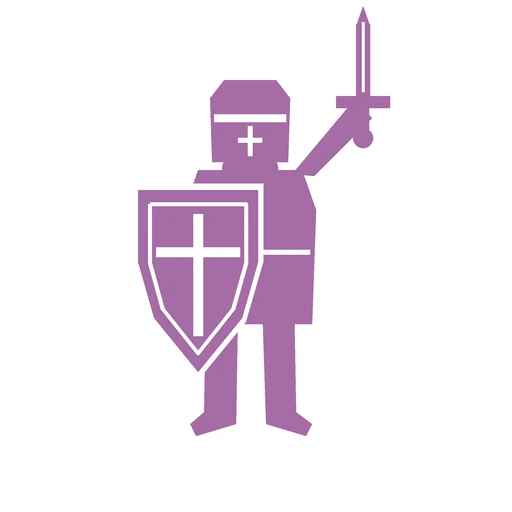
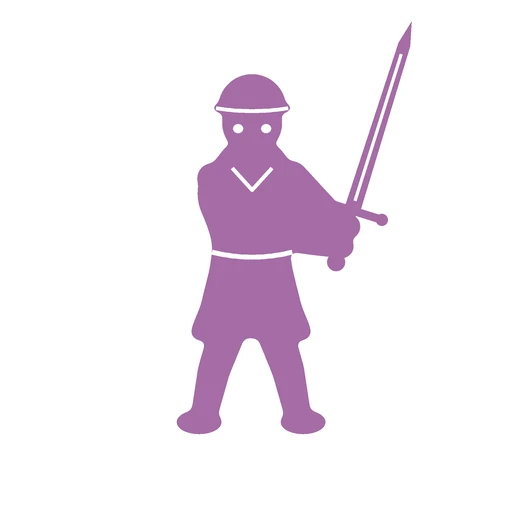
Lion Kingdom: the man-at-arms redrawn as a man with a longsword
Drawn with curves and rounded like the longbowman: a round steel cap, a belted surcoat, both fists on a longsword held upright at his right. No shield or great helm any more, so he looks nothing like the warchief's bodyguard.

Claude-Session: https://claude.ai/code/session_01HBp1f2UVRcVz76SBztKoo9

Changed region(s): [[0.25, 0.0, 0.8125, 0.8438], [0.4688, 0.125, 0.5312, 0.1562]]

diff --git a/haunt-roll-fail/nort/tools/lion-warriors.py b/haunt-roll-fail/nort/tools/lion-warriors.py
@@ -1,6 +1,6 @@
 #!/usr/bin/env python3
 # Lion Kingdom (fan content): the clan's two warrior figures, in the flat style of unit-original and bodyguard-figure.py, with no
-# Norse horns: a man-at-arms in a great helm with a sword and a heater shield (lion-sword-<color>.webp), and a longbowman in a
+# Norse horns: a man-at-arms in a steel cap holding a longsword upright (lion-sword-<color>.webp), and a longbowman in a
 # kettle hat with a quiver (lion-bow-<color>.webp). Asked for by Gman on 2026-10-24, so the Lion's warriors look English or French.
 # Drawn in the originals' brown and white (-original), then in each player color with the unit figures' fill and detail colors.
 # Run from haunt-roll-fail/: python3 nort/tools/lion-warriors.py
@@ -31,39 +31,58 @@ def body(d, colour):
     d.polygon(p((262, 300), (294, 300), (296, 412), (312, 424), (306, 436), (266, 424)), fill=colour)
     d.polygon(p((198, 170), (302, 170), (316, 210), (312, 324), (188, 324), (184, 210)), fill=colour)
 
-# --- the man-at-arms: great helm, sword raised, heater shield with a cross
+# --- the man-at-arms: a round steel cap, both hands on a longsword held upright at his right; drawn like the longbowman, with curves
+# and rounded corners, and no shield or helm, so he looks nothing like the bodyguard (Gman, 2026-10-24)
+POMMEL, BLADE = (336, 262), (0.30, -0.954)   # the sword's pommel and the direction of its point
+
+def along(t, side=0):
+    # the point t pixels from the pommel along the sword, side pixels across it
+    return (POMMEL[0] + BLADE[0] * t - BLADE[1] * side, POMMEL[1] + BLADE[1] * t + BLADE[0] * side)
+
 def sword_shapes(d, colour, detail):
-    body(d, colour)
-    d.ellipse(p((222, 150), (278, 186)), fill=colour)
-    # Great helm: a flat topped barrel
-    d.polygon(p((212, 162), (210, 98), (224, 80), (276, 80), (290, 98), (288, 162)), fill=colour)
-    # Sword arm, raised, and the sword: blade, point, crossguard, grip, pommel
-    d.polygon(p((292, 174), (314, 176), (372, 118), (354, 100)), fill=colour)
-    d.rectangle(p((356, 24), (370, 100)), fill=colour)
-    d.polygon(p((356, 26), (363, 6), (370, 26)), fill=colour)
-    d.rectangle(p((336, 96), (390, 108)), fill=colour)
-    d.rectangle(p((357, 106), (369, 132)), fill=colour)
-    d.ellipse(p((353, 128), (373, 148)), fill=colour)
+    m = Image.new('L', (N, N))
+    e = ImageDraw.Draw(m)
+    limb(e, 255, [(232, 318), (214, 370), (204, 416)], 19, 13)
+    limb(e, 255, [(270, 318), (288, 370), (298, 416)], 19, 13)
+    e.ellipse(p((176, 410), (222, 434)), fill=255)
+    e.ellipse(p((280, 410), (326, 434)), fill=255)
+    # A surcoat over the mail, belted, down to the knees
+    e.polygon(p(*curve([(204, 172), (228, 158), (276, 158), (300, 172), (304, 200), (290, 246), (300, 300), (310, 336), (276, 342), (250, 338),
+        (224, 342), (192, 336), (202, 300), (212, 246), (198, 200)])), fill=255)
+    # Neck, head, and a round steel cap with a rim
+    e.polygon(p((206, 172), (226, 146), (278, 146), (298, 172)), fill=255)
+    e.ellipse(p((236, 136), (268, 168)), fill=255)
+    e.ellipse(p((222, 92), (282, 154)), fill=255)
+    e.pieslice(p((218, 74), (286, 142)), 180, 360, fill=255)
+    e.ellipse(p((212, 100), (292, 116)), fill=255)
+    # Both arms to the grip at his right, the right elbow out, the left arm across the body, the fists around the grip
+    h1, h2 = along(16), along(38)
+    limb(e, 255, [(212, 178), (248, 234), (h1[0] - 4, h1[1])], 15, 11)
+    limb(e, 255, [(292, 176), (326, 210), (h2[0] + 2, h2[1] + 2)], 15, 11)
+    for x, y in (h1, h2):
+        e.ellipse(p((x - 13, y - 12), (x + 13, y + 12)), fill=255)
+    e.polygon(p((296, 196), (326, 210), h2, h1, (276, 244)), fill=255)
+    m = m.filter(ImageFilter.GaussianBlur(3 * S)).point(lambda v: 255 if v > 128 else 0)
+    d.bitmap((0, 0), m, fill=colour)
+    # The belt
+    d.line(p(*bezier((212, 252), (252, 262), (292, 252), 20)), fill=detail, width=5 * S)
+    # The longsword held upright: pommel under the fists, a straight crossguard over them, a long blade tapering to its point
+    d.ellipse(p(*(lambda c: ((c[0] - 9, c[1] - 9), (c[0] + 9, c[1] + 9)))(along(0))), fill=colour)
+    d.polygon(p(along(0, -5), along(50, -5), along(50, 5), along(0, 5)), fill=colour)
+    d.polygon(p(along(50, -30), along(58, -30), along(58, 30), along(50, 30)), fill=colour)
+    for side in (-31, 31):
+        d.ellipse(p(*(lambda c: ((c[0] - 6, c[1] - 6), (c[0] + 6, c[1] + 6)))(along(54, side))), fill=colour)
+    d.polygon(p(along(56, -8), along(228, -6), along(252, 0), along(228, 6), along(56, 8)), fill=colour)
 
 def sword_details(d, colour, detail):
-    w = 5 * S
-    # The helm's eye slit and breathing cross
-    d.line(p((214, 118), (286, 118)), fill=detail, width=8 * S)
-    d.line(p((250, 126), (250, 156)), fill=detail, width=w)
-    d.line(p((238, 140), (262, 140)), fill=detail, width=w)
+    w = 4 * S
+    # The cap's rim, the eyes, the collar
+    d.line(p(*bezier((216, 108), (252, 114), (288, 108), 20)), fill=detail, width=w)
+    d.ellipse(p((233, 124), (243, 133)), fill=detail)
+    d.ellipse(p((261, 124), (271, 133)), fill=detail)
+    d.line(p((232, 168), (252, 190), (272, 168)), fill=detail, width=w, joint='curve')
     # The blade's fuller
-    d.line(p((363, 22), (363, 92)), fill=detail, width=3 * S)
-    # Belt
-    d.line(p((250, 252), (310, 252)), fill=detail, width=w)
-    # Heater shield in front: a detail-colored edge, the shield, an inner line, a cross
-    shield = [(138, 190), (258, 190), (258, 262), (242, 318), (198, 372), (154, 318), (138, 262)]
-    edge = [(x + (x - 198) * 0.09, y + (y - 270) * 0.08) for x, y in shield]
-    d.polygon(p(*edge), fill=detail)
-    d.polygon(p(*shield), fill=colour)
-    inner = [(198 + (x - 198) * 0.8, 268 + (y - 268) * 0.82) for x, y in shield]
-    d.line(p(*(inner + inner[:1])), fill=detail, width=4 * S, joint='curve')
-    d.line(p((198, 214), (198, 336)), fill=detail, width=10 * S)
-    d.line(p((156, 252), (240, 252)), fill=detail, width=10 * S)
+    d.line(p(along(64), along(218)), fill=detail, width=3 * S)
 
 # --- the longbowman: kettle hat, drawing a longbow, a quiver of arrows at his hip; drawn with curves and then rounded, so he
 # isn't built of boxes (Gman, 2026-10-24)
